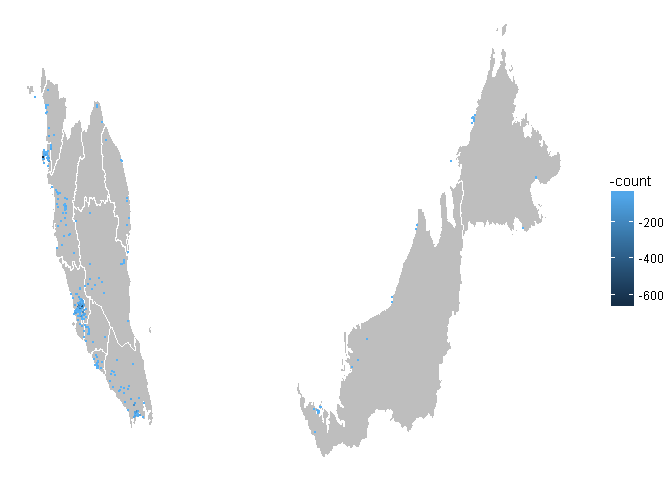
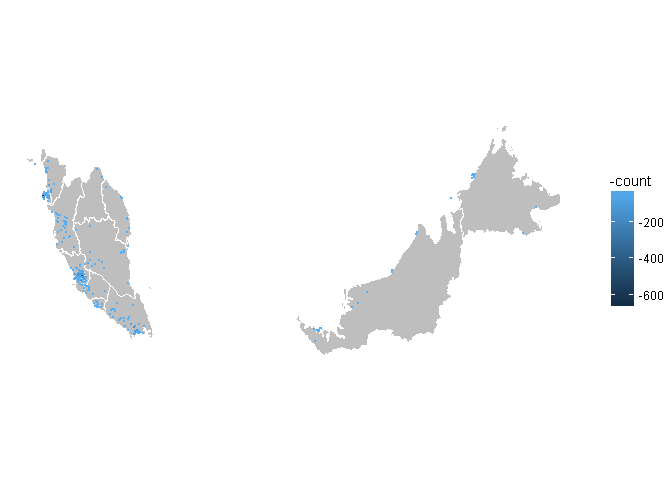
setting figure proportions right

diff --git a/eda_r.md b/eda_r.md
@@ -189,7 +189,7 @@ Data %>%
 ```r
 ggplot() + geom_polygon(data = final_map, aes(x = long, y = lat, group = group), 
                         color = 'white', fill = 'grey') + 
-  geom_point(data = Data2, aes(x = Longitude, y = Latitude, color = -count), size = .1) + theme_nothing(legend = TRUE)
+  geom_point(data = Data2, aes(x = Longitude, y = Latitude, color = -count), size = .1) + theme_nothing(legend = TRUE) + coord_fixed(1.3)
 ```
 
 ![](eda_r_files/figure-html/unnamed-chunk-8-1.png)<!-- -->
